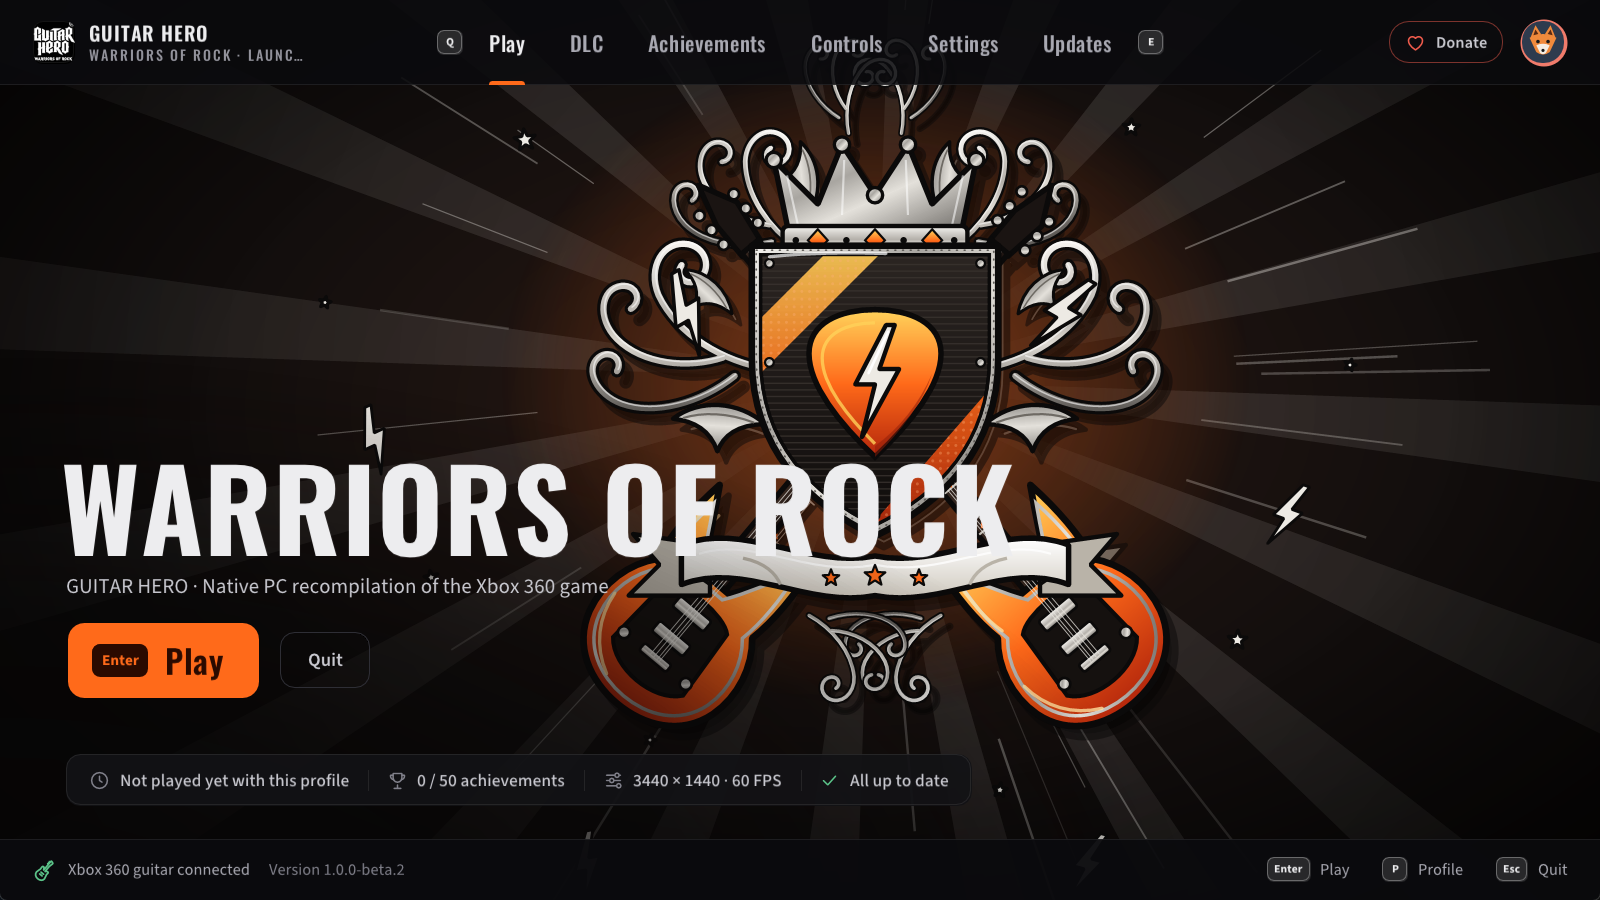
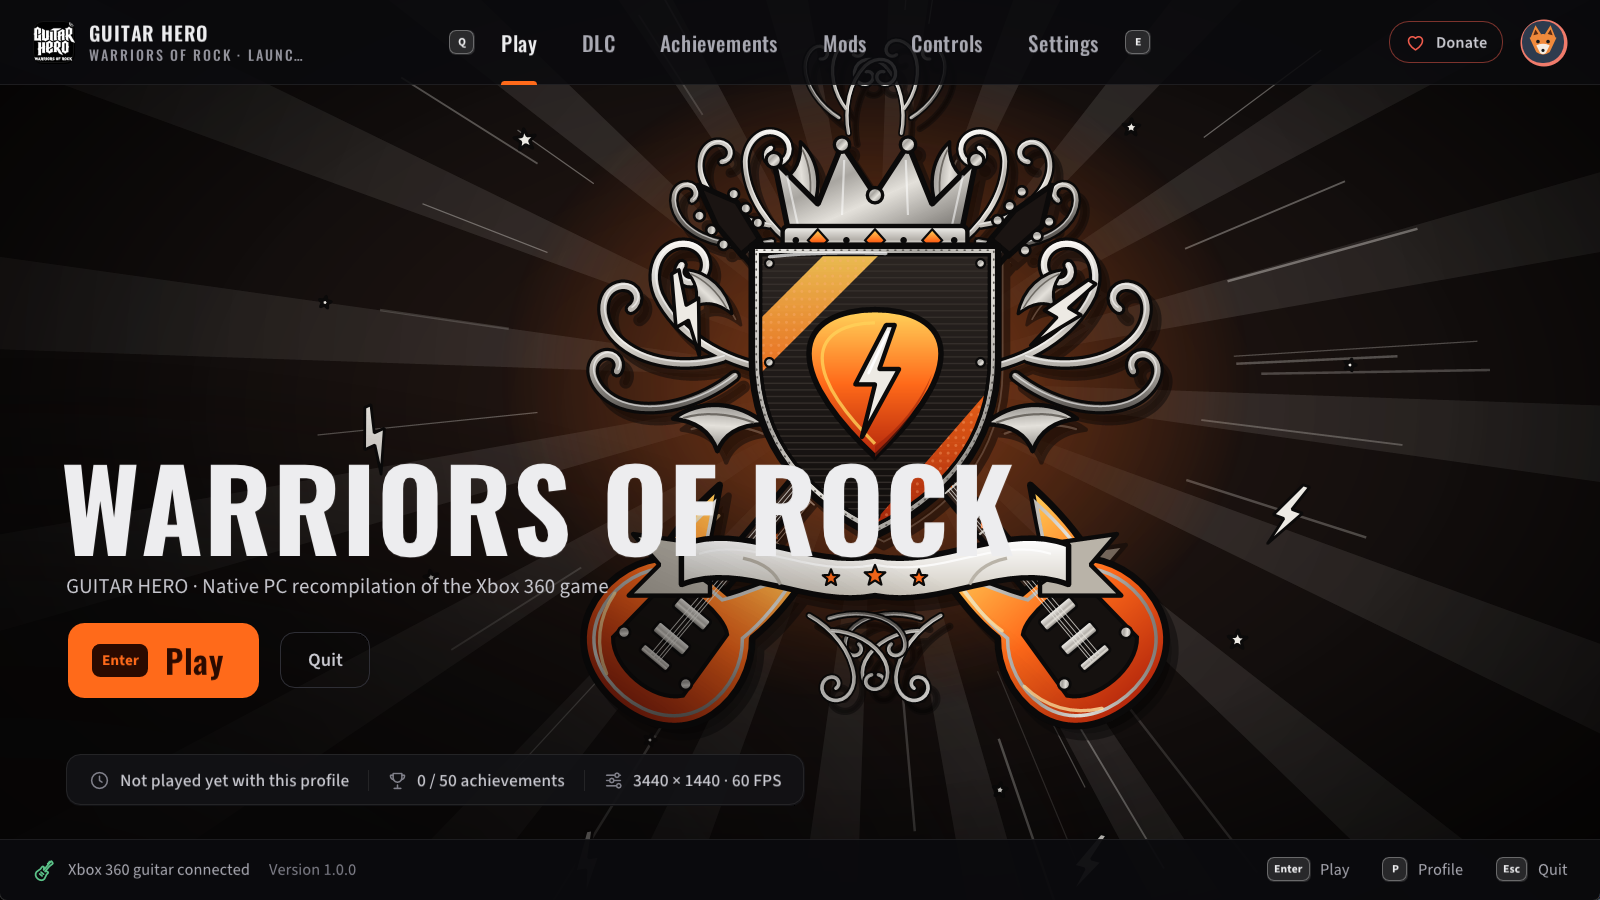
Version 1.0.0-beta.4, and the README's badges, launcher screenshots and credits
The README's badges in two rows (the latest release and the latest beta;
downloads, Discord, Ko-fi, X, more games), the launcher's screenshots taken
again with 3.31.0 (new: Graphics, Mods and its gallery), LuisText among the
credits.

Changed region(s): [[0.25, 0.0311, 0.75, 0.0622], [0.5312, 0.84, 0.5938, 0.9022], [0.2188, 0.9644, 0.25, 0.9956]]

diff --git a/res/version.h b/res/version.h
@@ -2,4 +2,4 @@
 #pragma once
 
 #define RECOMP_VERSION 1, 0, 0, 0
-#define RECOMP_VERSION_STR "1.0.0-beta.3"
+#define RECOMP_VERSION_STR "1.0.0-beta.4"

diff --git a/README.md b/README.md
@@ -6,6 +6,10 @@
 
 <p align="center">
   <a href="https://github.com/ElGuslml/GHWoRRecomp/releases/latest"><img alt="Latest release" src="https://img.shields.io/github/v/release/ElGuslml/GHWoRRecomp?style=for-the-badge&label=Latest%20release&color=ff6a1a"></a>
+  <a href="https://github.com/ElGuslml/GHWoRRecomp/releases"><img alt="Latest beta" src="https://img.shields.io/github/v/release/ElGuslml/GHWoRRecomp?include_prereleases&sort=semver&style=for-the-badge&label=Latest%20beta&color=c2410c"></a>
+</p>
+<p align="center">
+  <a href="https://github.com/ElGuslml/GHWoRRecomp/releases"><img alt="Downloads" src="https://img.shields.io/github/downloads/ElGuslml/GHWoRRecomp/total?style=for-the-badge&label=Downloads&color=30363d"></a>
   <a href="https://discord.gg/XQtM5TmNs8"><img alt="Discord: join the server" src="https://img.shields.io/badge/Discord-Join%20the%20server-5865F2?style=for-the-badge&logo=discord&logoColor=white"></a>
   <a href="https://ko-fi.com/elguslml"><img alt="Ko-fi: support me" src="https://img.shields.io/badge/Ko--fi-Support%20me-FF5E5B?style=for-the-badge&logo=kofi&logoColor=white"></a>
   <a href="https://x.com/ElGuslml"><img alt="X: follow @ElGuslml" src="https://img.shields.io/badge/X-Follow%20%40ElGuslml-000000?style=for-the-badge&logo=x&logoColor=white"></a>
@@ -181,18 +185,25 @@ Everything is set up from **GH Warriors of Rock Launcher**, with the mouse, the 
 | 👤 **Profile** | Your picture at the top right: hours played, streaks, your week, your games and your favorite achievements. |
 
 <p align="center">
+  <img src="docs/images/launcher-mods.png" width="49%" alt="Mods: a picture of your own on the note highway, previewed">
+  <img src="docs/images/launcher-mods-gallery.png" width="49%" alt="Mods: the gallery of your highway pictures">
+</p>
+<p align="center"><sub>Mods: a picture of your own on the note highway, previewed with the game's own highway, and the gallery of your folder (favorites, darkening).</sub></p>
+<p align="center">
   <img src="docs/images/launcher-controls.png" width="49%" alt="Controls: a guitar's frets">
   <img src="docs/images/launcher-microphone.png" width="49%" alt="Controls: the microphone">
 </p>
 <p align="center"><sub>Controls: what each fret of your guitar does, and the microphone you sing with.</sub></p>
 <p align="center">
   <img src="docs/images/launcher-display.png" width="49%" alt="Settings: Display">
-  <img src="docs/images/launcher-achievements.png" width="49%" alt="Achievements">
+  <img src="docs/images/launcher-graphics.png" width="49%" alt="Settings: Graphics">
 </p>
-<p align="center"><sub>Settings (Display: your screen, window or fullscreen, the image format, the frame rate) and the achievements.</sub></p>
+<p align="center"><sub>Settings: Display (your screen, window or fullscreen, the image format, the frame rate, V-Sync) and Graphics (the renderer, the graphics card, upscaling, antialiasing).</sub></p>
 <p align="center">
-  <img src="docs/images/launcher-dlc.png" width="70%" alt="DLC: your DLC folder and its packages">
+  <img src="docs/images/launcher-achievements.png" width="49%" alt="Achievements">
+  <img src="docs/images/launcher-dlc.png" width="49%" alt="DLC: your DLC folder and its packages">
 </p>
+<p align="center"><sub>The 50 achievements, and your DLC folder.</sub></p>
 
 Your choices are saved as soon as you make them. When you quit the game, the launcher comes back.
 
@@ -293,6 +304,7 @@ it will get fixed. Thanks for giving this game a try! 🧡
   - the volume up to 200 %;
   - Star Power answering every press above 60 FPS;
   - work on NativeXRenderer's speed (a one-pass present, per-pass GPU timings).
+- [LuisText](https://github.com/LuisText), for contributions that made the game run faster.
 - Developed by Gustavo Garcia with the help of Claude (Anthropic): see [the note about AI](#-a-note-about-ai).
 
 ## 📜 License
